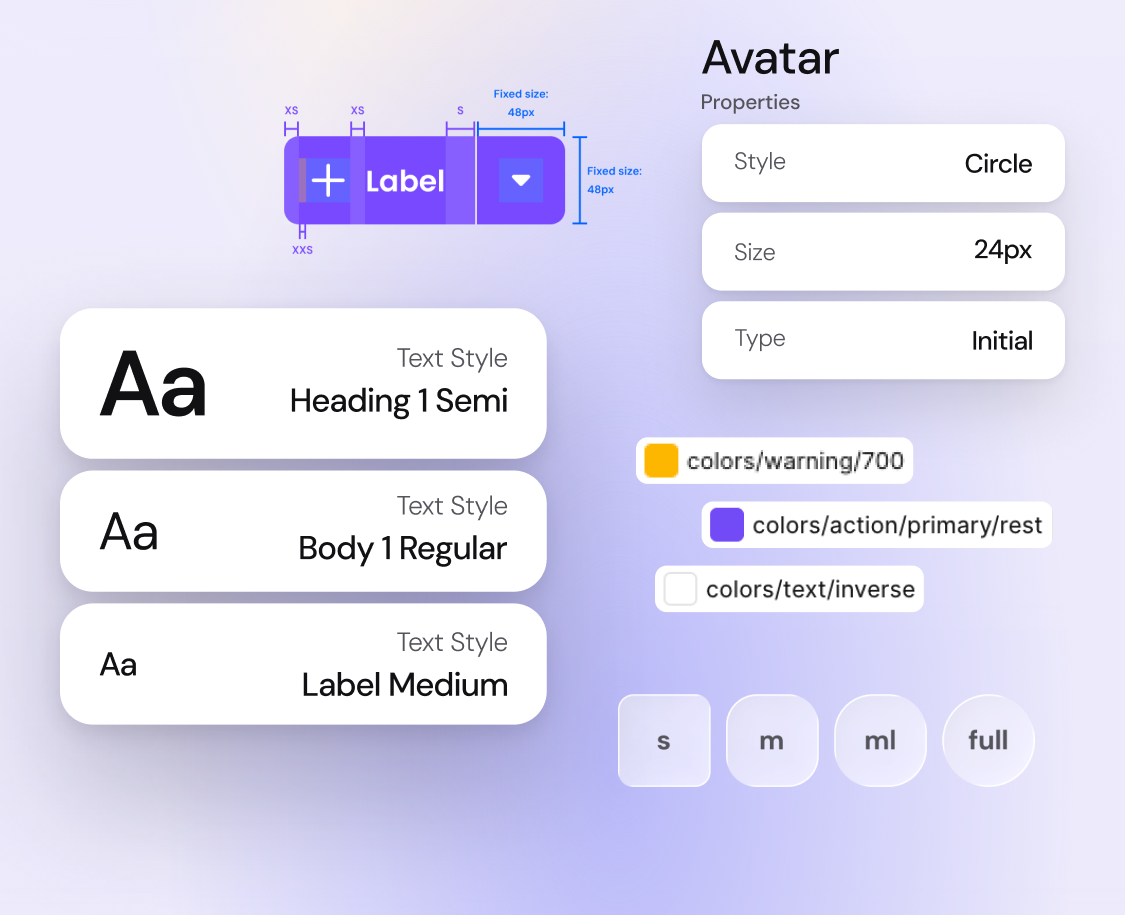
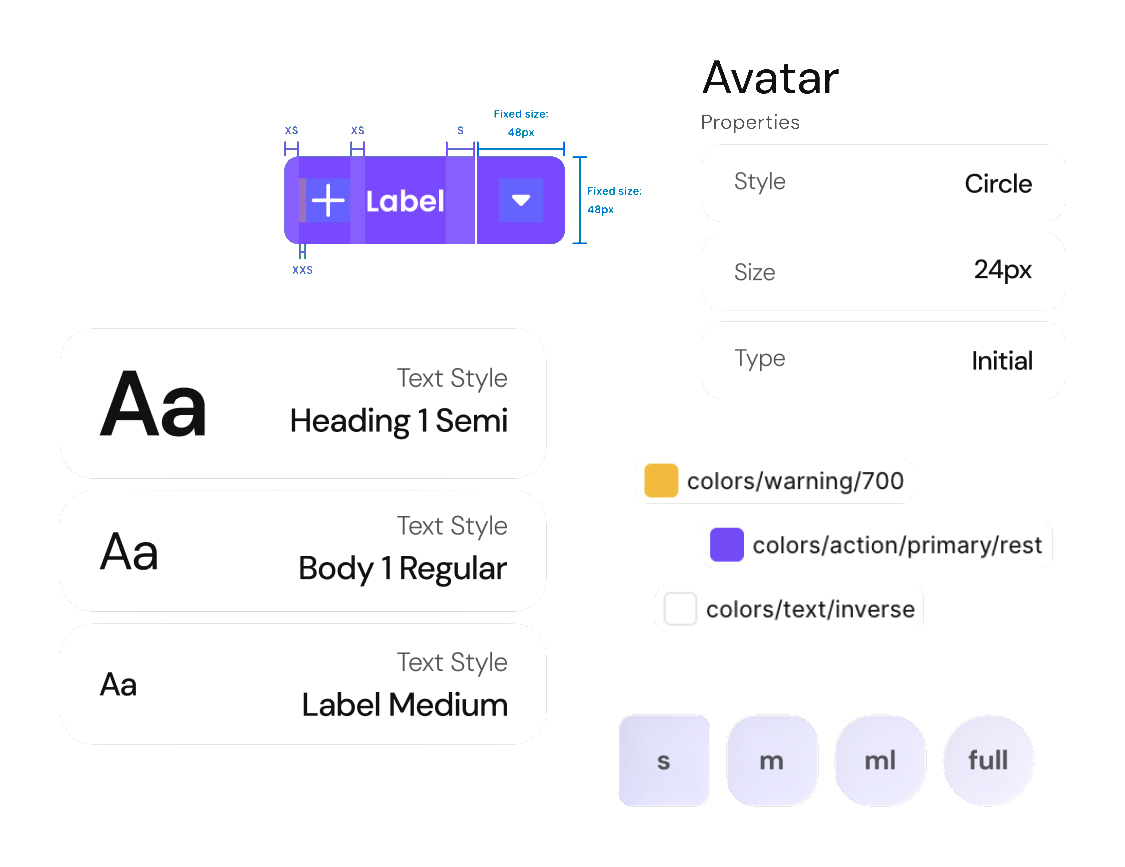
Penny mobile hero: make the exported art transparent (no background box)
The Figma export baked the header's gradient as an opaque background, which
read as a box behind the art. Re-exported the art content on a keyable
backdrop and chroma-keyed it to transparency, so it now sits directly on the
hero's own gradient. Cache-bust the image (?v=2).

diff --git a/projects/penny.html b/projects/penny.html
@@ -179,7 +179,7 @@
         </div>
         <!-- Mobile hero art: exact export of the updated Figma art (438:8538);
              replaces the HTML mockup above on the phone (desktop keeps it). -->
-        <img class="penny-hero-mobile" src="../assets/penny-page/hero-mobile.png" alt="" />
+        <img class="penny-hero-mobile" src="../assets/penny-page/hero-mobile.png?v=2" alt="" />
       </div>
     </div>
   </header>
